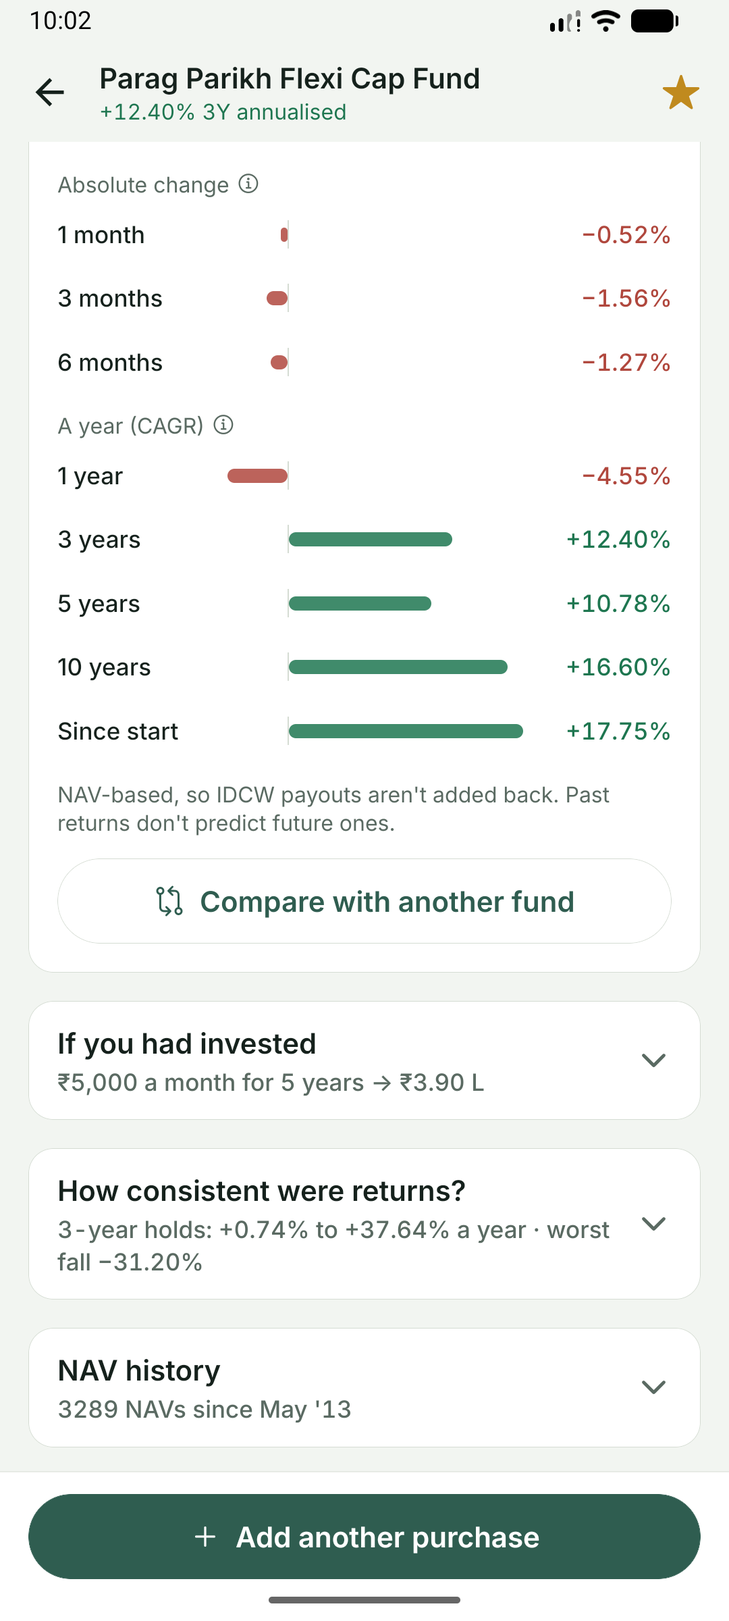
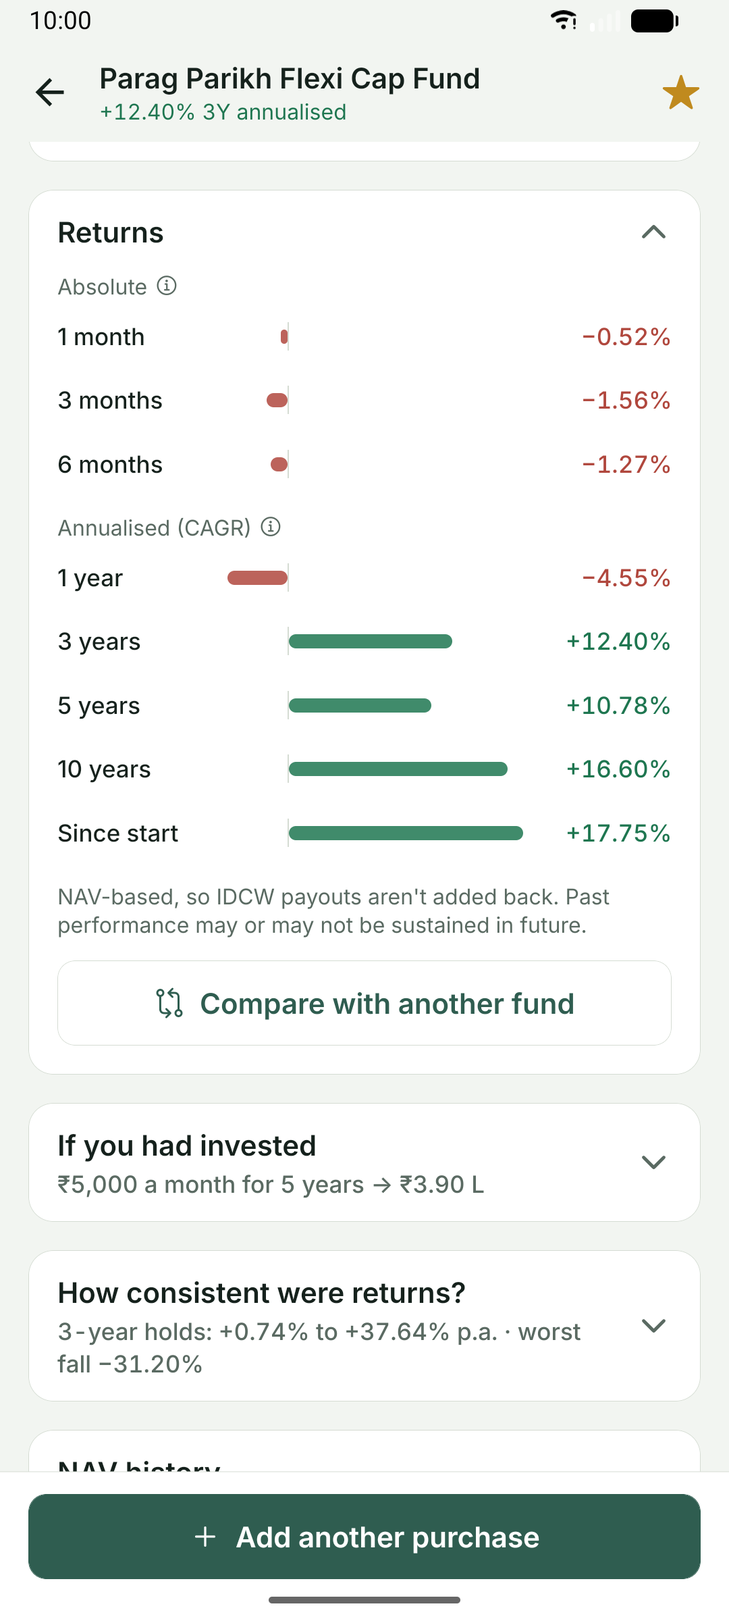
docs: README tour, recording and beyond-the-brief table; SECURITY.md; DESIGN.md polish pass; short AI_CONTEXT; screenshots retaken from the sample
Also: the recently viewed as-of date is the date most NAVs share, so a
liquid fund's weekend NAV no longer makes every other row print a date.

diff --git a/src/domain/nav.ts b/src/domain/nav.ts
@@ -151,16 +151,24 @@ export function isStale(lastDate: IsoDate, today: IsoDate): boolean {
 }
 
 /**
- * The date a list of latest NAVs is "as of": the newest one that isn't stale. A stale NAV
- * (a closed scheme) says its own date instead, so it never drags the shared date back.
+ * The date a list of latest NAVs is "as of": the date most of them share, the newest on a
+ * tie. A fund that publishes on other days (a liquid fund's weekend NAV) or a stale one (a
+ * closed scheme) then says its own date, instead of every other row having to.
  */
 export function currentNavDate(dates: readonly IsoDate[], today: IsoDate): IsoDate | null {
-  let newest: IsoDate | null = null;
+  const counts = new Map<IsoDate, number>();
   for (const date of dates) {
-    if (isStale(date, today)) continue;
-    if (newest === null || date > newest) newest = date;
+    if (!isStale(date, today)) counts.set(date, (counts.get(date) ?? 0) + 1);
   }
-  return newest;
+  let best: IsoDate | null = null;
+  let bestCount = 0;
+  for (const [date, count] of counts) {
+    if (count > bestCount || (count === bestCount && best !== null && date > best)) {
+      best = date;
+      bestCount = count;
+    }
+  }
+  return best;
 }
 
 /** One row of the NAV history list. */

diff --git a/src/domain/__tests__/nav.test.ts b/src/domain/__tests__/nav.test.ts
@@ -163,7 +163,9 @@ describe('isStale', () => {
 });
 
 describe('currentNavDate', () => {
-  it('takes the newest NAV date that is not stale', () => {
+  it('takes the date most current NAVs share, the newest on a tie, ignoring stale ones', () => {
+    // A liquid fund's Saturday NAV doesn't move the shared date off Friday.
+    expect(currentNavDate([d('2026-10-09'), d('2026-10-10'), d('2026-10-09'), d('2018-06-01')], TODAY)).toBe('2026-10-09');
     expect(currentNavDate([d('2026-10-08'), d('2026-10-09'), d('2018-06-01')], TODAY)).toBe('2026-10-09');
     expect(currentNavDate([d('2018-06-01')], TODAY)).toBeNull();
     expect(currentNavDate([], TODAY)).toBeNull();

diff --git a/AI_CONTEXT.md b/AI_CONTEXT.md
@@ -1,90 +1,60 @@
 # AI_CONTEXT
 
-> **Draft.** Sections marked **[YOU]** need your own words before submission. Everything else is taken from `docs/BUILD_LOG.md`, including Claude Code's corrections from phases 0–8.
+> **Draft.** Sections marked **[YOU]** need your own words before submission. Everything else is taken from `docs/BUILD_LOG.md`, which has the full record.
 
 ## AI tools used
 
 - **Claude (claude.ai):** research and fact-checking, then writing and testing the domain core (dates, money, NAV rules, the API client, the store's rules).
-- **Claude Code:** building the screens from a phased plan (`docs/BUILD_PROMPT.md`), with project rules in `CLAUDE.md`. I reviewed each phase before starting the next.
+- **Claude Code:** building the screens from a phased plan (`docs/BUILD_PROMPT.md`) under project rules in `CLAUDE.md`, then the product, design and polish rounds. I reviewed each phase before the next.
 - **[YOU]** Name the tools behind the three earlier research reports I started from (for example ChatGPT or Gemini deep research).
 
 ## How I directed them
 
-- I treated AI output as a draft to verify. Each claim the design rests on was checked against a primary source: live mfapi.in responses, SEBI and AMFI rules, and Expo SDK 57's own source and docs.
-- I ordered the work by risk. The logic that's easy to get subtly wrong (dates, money, NAV rules) was written first as pure TypeScript with tests built on real API data. The UI came afterwards, generated against those tested functions.
-- I wrote the rules down for the coding agent (`CLAUDE.md`): no floats for money, no `new Date('YYYY-MM-DD')`, nothing that doesn't run in Expo Go, and verified modules left alone unless a failing test proves a bug. Each phase had a gate: type-check, tests, bundle and a check on a phone.
-- When a phase needed a new rule (search result cap, chart range labels, gain/loss direction, holdings sort order), it went into `src/domain` with tests instead of into a screen. Every change to pre-built code is listed in the build log.
-- I tested each phase on my phone and sent back what I saw. From Phase 5 on I had Claude Code run the test points itself on an Android emulator through adb, and report what passed and what it couldn't check.
+- AI output was a draft to verify. Each claim the design rests on was checked against a primary source: live mfapi.in responses, SEBI and AMFI rules, and Expo SDK 57's own source.
+- Work was ordered by risk: dates, money and NAV rules first, as pure TypeScript with tests on real API data; screens afterwards, built against those functions.
+- Rules for the coding agent were written down (`CLAUDE.md`): no floats for money, no `new Date('YYYY-MM-DD')`, nothing that doesn't run in Expo Go, a domain function plus tests for every new rule. Each phase had a gate: type-check, tests, bundle, and a check on a device.
+- From Phase 5 on, Claude Code ran the test points itself on an Android emulator through adb (deep links, the accessibility tree, airplane mode, dark mode, 2× text) and reported what passed and what it couldn't check.
 
 ## Where AI helped
 
-- Mapping what the API really does: an unknown code returns HTTP 200 with empty data, history lags `/latest` by a day, a NAV exists on Sunday 31 Mar 2024, and closed schemes are still served.
-- Exact-money and calendar code, with tests that use real holiday gaps from the data.
-- Generating screens quickly against a precise spec.
-- Checking assumptions against the live API instead of guessing (whole-word search, the 15-result cap, date ranges, two-letter queries such as "jm").
-- Driving the emulator for QA: deep links, the accessibility tree, airplane mode, dark mode, the largest font size and frame timing. That pass found the large-font overflows in Phase 7.
+- Mapping what the API really does: an unknown code returns HTTP 200 with empty data, history lags `/latest` by a day, a NAV exists on Sunday 31 Mar 2024, closed schemes are still served.
+- Exact-money and calendar code, with tests that use real holiday gaps.
+- Building screens quickly against a precise spec, and walking through six investor personas (`docs/PERSONAS.md`) to find what was missing.
 - **[YOU]** Anything else that saved you time.
 
-## What needed correction or redesign
+## What needed correction
 
-From the research reports:
-- The purchase-NAV rule (see the example below).
-- Libraries that don't run in Expo Go: `react-native-charts-wrapper` and MMKV.
-- Claims attributed to Groww that are really Shopify's (the Redux Toolkit migration and FlashList), an outdated debugging tool (Flipper), wrong example dates, and an SDK 54 baseline.
+From the research reports: the purchase-NAV rule (below); libraries that don't run in Expo Go (`react-native-charts-wrapper`, MMKV); claims attributed to Groww that were Shopify's; an SDK 54 baseline.
 
-Found while building and checking the core (tests, type-checks against the real library sources, and reading the Babel preset):
-- Scheme-name parsing labelled a "Dividend Yield" fund as IDCW; plan and option are now read only from the part after the fund's name.
-- `10n ** x` on BigInt can be compiled to `Math.pow`, which throws; replaced.
-- The compact formatter could print "₹100.00 L" instead of "₹1.00 Cr".
-- Pricing a purchase from history merged with `/latest` could skip a NAV the history hadn't caught up with yet; `/latest` is now used only on an exact date match.
-- APIs that changed in this SDK: datetimepicker 9's `onChange` is deprecated, `Tabs` moved to `expo-router/js-tabs`, and TypeScript 6 no longer loads global test types.
+The six that mattered most during the build (the rest are in `docs/BUILD_LOG.md`):
 
-During the Claude Code phases (details and dates in `docs/BUILD_LOG.md`):
-- **Pasteable setup commands.** An AI-written setup guide put inline `#` comments in shell blocks. zsh doesn't treat `#` as a comment when pasted, and because the steps were separate lines, `git init` ran in `~/Documents` after `unzip` failed there. The docs now have no inline comments, and dependent steps are chained with `&&`.
-- **Search was assumed to match parts of words.** On my phone "par" found nothing while "parag" found 15. Claude Code checked the live API (`par`, `hdf` → 0; `parag`, `hdfc` → 15) instead of guessing, then changed the hint and empty-state copy rather than downloading all ~40,000 schemes. A follow-up check showed `jm` returns 15 JM Financial schemes, so the minimum query length went from 3 to 2.
-- **Money done in its head.** Claude Code's Phase 4 test notes said "Invested ≈ ₹9,390.80, Value ≈ ₹11,154.05". The exact figures are ₹9,390.91 and ₹11,154.14 (gain +₹1,763.24, +18.78%). The app showed the right numbers because they come from BigInt maths in `valueLot`, asserted in `valuation.test.ts`. Rule since: expected money values come from the domain functions or the tests, never hand arithmetic.
-- **A skipped check.** One small fix was committed after only the type check, "to save resources". Rule since: `npm run check` before every commit.
-- **Pull to refresh broken on Android.** The fund screen mixed Gesture Handler's `ScrollView` with React Native's `RefreshControl`; it needs Gesture Handler's `RefreshControl`.
-- **Offline searches never ended.** TanStack Query pauses a query offline instead of failing it, so the screen showed neither an error nor a spinner, and with previous results kept it would show "Searching…" forever. Paused queries with no data now show the offline error.
-- **Layout bugs I spotted on the phone:** filters stayed on after clearing the search; the empty state sat partly behind the keyboard (SDK 57 Android is edge-to-edge, so the keyboard overlaps instead of resizing); the "Stale" badge stacked under the date read as belonging to the next row; the empty fund header bar.
-- **Found in the Phase 7 emulator pass:** at the largest font size, holdings rows overflowed (the signed amounts ignored the 1.3× cap) and NAV dates wrapped; list headers weren't counted in `getItemLayout` offsets; watchlist rows without plan badges didn't line up.
-- **A security issue caught by an automated review.** The purchases CSV export copied scheme names (from an outside API) straight into cells; a name starting with `=` or `+` would run as a spreadsheet formula. A background security review flagged it; text cells are now neutralised, with tests.
-- **A navigation bug I found on the phone:** the fund page had no back arrow until you scrolled. A header title that rendered nothing also removed the back button.
-- **An edit that silently didn't apply.** After a formatter reflowed a line, a scripted text replacement matched nothing and the SIP banner kept its old wording; the emulator check caught it.
-- **Agent tests with wrong assumptions:** two new tests failed because the test, not the code, was wrong (a holiday on the wrong day; a 31st-of-month SIP after a clamped February). The second one exposed a real gap in the SIP detection, which was then fixed.
-- **Product gaps found by walking through six investor personas** (`docs/PERSONAS.md`): no explanations for beginners (now a glossary), no way to enter years of SIP instalments (now one form, plus "Add instalments due"), no risk measure (now the worst fall and recovery), no comparison (now Compare), and data that lived only on the phone (now backup, restore and CSV).
-- **Not every surprise was a bug.** Expo Go's "Failed to download remote update" in airplane mode is development-only (it fetches the bundle from Metro at each launch); `adb reverse` made offline cold starts testable. The plan expected 3 Direct Growth Parag Parikh plans; the live data now has 4.
-
-- **A fresh clone wouldn't install.** Adding a dependency exposed that `npm install` on a clean clone failed (ERESOLVE): the lockfile carried `react-dom@19.3.0`, an optional Expo peer that needs React 19.3, while SDK 57 pins 19.2.3. A reviewer's first command would have failed. Fixed with an `overrides` pin, verified with `npm ci` in an empty directory. The first attempted fix (`--legacy-peer-deps`) rewrote 500 lockfile lines and dropped packages, so it was reverted.
-- **A formatter run without the repo's config.** `npx prettier` (no config in the repo) rewrote five files to double quotes; they were restored from git and edited again by hand.
-- **A wrong first diagnosis.** Missing list dividers looked like a tall badge painting over the border; moving the divider changed nothing. Measuring row bounds showed the cause: 92 dp is 241.5 px at 420 dpi, so alternate rows overlapped by a pixel. Row heights are now rounded to whole pixels.
-- **A privacy leak.** The new "SIP ₹5,000" row label showed money with amounts hidden; the background security review flagged it, and it now reads "SIP".
-- **Invested didn't match the statement.** SIP instalments showed ₹4,999.99 because invested was units × NAV. Real apps and CAMS statements count the rupees paid; with approval, purchases now store the amount (optional, backward-compatible).
-- **"Is the list I gave you mine or yours?"** When I asked whether the to-do list had anything Claude found itself, it admitted it was mostly my own asks, then did its own critical audit of every screen (16 findings: duplicated figures, labels repeated per row, a pinned title wasting space, dots misaligned, tips in subtitles) and fixed them.
-- **A chart animation that stopped halfway.** The draw-in reveal was cancelled by re-renders; it now runs only when the range changes and finishes if interrupted.
+1. **Search was assumed to match parts of words.** On my phone "par" found nothing. Claude Code checked the live API (`par` → 0, `parag` → 15) instead of guessing, and changed the copy rather than downloading all ~40,000 schemes.
+2. **Money done in its head.** Its test notes said "Invested ≈ ₹9,390.80"; the exact figure is ₹9,390.91. The app was right because the figure comes from BigInt maths in `valueLot`. Rule since: expected money comes from the domain functions or the tests, never hand arithmetic.
+3. **A skipped check.** A small fix was committed after only the type check. Rule since: `npm run check` before every commit.
+4. **A fresh clone wouldn't install.** The lockfile carried `react-dom@19.3.0`, which needs React 19.3, while SDK 57 pins 19.2.3, so a reviewer's first `npm install` would have failed. Fixed with an `overrides` pin and verified with `npm ci` in an empty directory.
+5. **Security reviews caught two leaks.** Scheme names from the API went straight into CSV cells (formula injection), and a "SIP ₹5,000" label showed money with amounts hidden. Both fixed, the first with tests.
+6. **Invested didn't match the statement.** SIP instalments showed ₹4,999.99 because invested was units × NAV. Statements count the rupees paid, so purchases now store the amount (optional, backward-compatible).
 
 **[YOU]** Say in your own words how you caught these (what you saw on the phone, what made you push back) and which ones mattered most to you.
 
 ## Key decisions and trade-offs
 
-- **TanStack Query for server data, Zustand for user data.** Different lifecycles: the cache, retries, cancellation and per-row states come from TanStack, while two small arrays don't need Redux.
-- **Exact money:** BigInt scaled integers, rounded once at display; our own Indian-format formatter instead of `Intl`.
-- **Expo Go compatibility as a hard rule:** SVG chart, AsyncStorage, no Reanimated, no Skia. Reviewers can run it without a build.
-- **Persist only latest NAVs** (offline watchlist), not full histories (they can exceed Android's per-entry storage limit).
-- **Lots, not one holding per fund**, because real purchases happen on different dates at different NAVs.
-- **Fixed-height list rows with a 1.3× font cap**, so long lists stay smooth and nothing overlaps at the largest font size; text truncates with an ellipsis instead.
-- **Tell the user about API limits instead of working around them:** whole-word search and the 15-result cap are explained in the UI rather than solved by downloading the full scheme list.
+- **TanStack Query for server data, Zustand for user data:** different lifecycles; two small arrays don't need Redux.
+- **Exact money:** BigInt scaled integers, rounded once at display, with our own Indian-format formatter.
+- **Expo Go as a hard rule:** SVG chart, AsyncStorage, no Reanimated or Skia, so a reviewer can run it without a build.
+- **Lots, not one holding per fund:** real purchases happen on different dates at different NAVs.
+- **Tell the user about API limits** (whole-word search, the 15-result cap) instead of working around them.
 
 Details are in `docs/ARCHITECTURE.md`.
 
 ## An example where I overrode the AI
 
-All three research reports said a weekend or holiday purchase should use the **nearest previous NAV**. I checked SEBI's applicable-NAV rules. A purchase gets the NAV of the day the money is realised before the cut-off, so money that arrives on a day with no NAV can only be priced at the **next** NAV. Nearest-prior would value a Saturday purchase at Friday's NAV, a price that purchase could never have got.
+All three research reports said a weekend or holiday purchase should use the **nearest previous NAV**. SEBI's applicable-NAV rules say a purchase gets the NAV of the day the money is realised before the cut-off, so money that arrives on a day with no NAV can only get the **next** NAV. Nearest-prior would price a Saturday purchase at Friday's NAV, a price it could never have got.
 
-The app uses the first NAV on or after the purchase date. If that NAV isn't published yet, the lot is saved as "Awaiting NAV" rather than valued with a guess. Trailing returns still use the NAV on or before each date, because they answer a different question: what the NAV was as of that day. The tests use real dates: Independence Day 2023 maps to 16 Aug, and Good Friday 2024 maps to Sunday 31 Mar 2024, a real weekend NAV.
+The app uses the first NAV on or after the purchase date, and saves a purchase as "Awaiting NAV" until that NAV is published. Trailing returns still use the NAV on or before each date, because they answer a different question. Tests use real dates: Independence Day 2023 maps to 16 Aug, and Good Friday 2024 to Sunday 31 Mar 2024, a real weekend NAV.
 
-**[YOU]** Optionally add a second example from the Claude Code phases. Candidates from the log: whole-word search (my phone test disproved the plan's assumption), or the hand-computed money figures that the tested code got right.
+**[YOU]** Optionally add a second example from the Claude Code phases, such as whole-word search (your phone test disproved the plan's assumption).
 
-## What I'd improve with more time
+## With more time
 
-Portfolio XIRR across lots; import from a CAS statement; day change on watchlist rows; component tests (React Native Testing Library) and end-to-end tests (Maestro); a development build with a proper icon and splash; grouping lots by fund; and a SIP calculator.
+Import from a CAS statement; Maestro end-to-end tests; a development build with app-switcher privacy tied to the hide-amounts toggle; multiple portfolios (for example, one per family member).

diff --git a/README.md b/README.md
@@ -2,6 +2,16 @@
 
 Search Indian mutual funds, read a fund's NAV history, keep a watchlist, and record holdings to see their current value and return. Built with Expo (managed workflow) and TypeScript on the free [mfapi.in](https://www.mfapi.in/) API.
 
+<img src="docs/screenshots/tour.gif" alt="A 28-second tour: Holdings, a fund with a running SIP, scrubbing the NAV chart, the 3Y and All ranges, the watchlist" width="280">
+
+## Two-minute tour
+
+1. Open **Holdings** and tap **Explore with a sample portfolio**. It prices five real funds from their published NAVs (one-time purchases and two monthly SIPs since 2022 and 2023), the same way a purchase you type in is priced, and stars three funds. **Clear** on the banner takes out only the sample.
+2. Open **Parag Parikh Flexi Cap**. Under *Your investment*, the purchase dated **Sunday 31 Mar 2024** got that day's NAV: AMFI published one that Sunday, the last day of the financial year. The October 2025 purchase was near the year's high, so it shows a loss.
+3. Open **HDFC Mid Cap**: the app spotted the ₹5,000 monthly SIP and offers **Add instalments due** for the months since the last one.
+4. Tap **Add another purchase**, enter any units and pick **Fri 2 Oct 2026** (Gandhi Jayanti, no NAV). It's priced at **Mon 5 Oct**, the first NAV on or after the date, and the form says so.
+5. Turn on airplane mode and reopen **Watchlist**: the saved NAVs show with their dates, and the closed HDFC Balanced Fund is flagged **Stale** with its last date, 01 Jun 2018.
+
 ## Run it
 
 **You need:** Node.js ^20.19.4, ^22.13.0 or ^24.3.0 (22 LTS recommended); the **Expo Go** app (SDK 57) on an Android or iOS phone, or an emulator; and internet access to `https://api.mfapi.in`. There are no API keys and no environment variables.
@@ -26,20 +36,24 @@ This project uses **Expo SDK 57**, which the store version of Expo Go runs as of
 | Command | What it does |
 |---|---|
 | `npm run typecheck` | TypeScript, strict |
-| `npm test` | Jest: 150+ tests on dates, money, NAV rules, parsing, the API client and the store |
+| `npm test` | Jest: 265 tests in 30 suites on dates, money, NAV rules, parsing, the API client, the sample portfolio and the store |
 | `npm run check` | Both |
 
 ## Screenshots
 
-Android emulator, light mode, Expo Go (SDK 57). Inter typeface, fund-house monograms, haptics and motion throughout.
+Android emulator, light mode, Expo Go (SDK 57), with the sample portfolio loaded.
 
-| Explore | Fund | Your investment | Returns |
-|---|---|---|---|
-| ![Explore](docs/screenshots/01-explore.png) | ![Fund page](docs/screenshots/02-fund.png) | ![Your investment](docs/screenshots/03-your-investment.png) | ![Returns](docs/screenshots/04-returns.png) |
+| Explore | Fund | Your investment |
+|---|---|---|
+| ![Explore](docs/screenshots/01-explore.png) | ![Fund page](docs/screenshots/02-fund.png) | ![Your investment](docs/screenshots/03-your-investment.png) |
 
-| NAV calendar | Watchlist | Holdings | Compare |
-|---|---|---|---|
-| ![NAV calendar](docs/screenshots/05-nav-calendar.png) | ![Watchlist](docs/screenshots/06-watchlist.png) | ![Holdings](docs/screenshots/07-holdings.png) | ![Compare](docs/screenshots/08-compare.png) |
+| Returns | Consistency | NAV calendar |
+|---|---|---|
+| ![Returns](docs/screenshots/04-returns.png) | ![Consistency](docs/screenshots/05-consistency.png) | ![NAV calendar](docs/screenshots/06-nav-calendar.png) |
+
+| Watchlist | Holdings | Compare |
+|---|---|---|
+| ![Watchlist](docs/screenshots/07-watchlist.png) | ![Holdings](docs/screenshots/08-holdings.png) | ![Compare](docs/screenshots/09-compare.png) |
 
 ## Features
 
@@ -50,8 +64,30 @@ Android emulator, light mode, Expo Go (SDK 57). Inter typeface, fund-house monog
 - **Holdings:** one row per fund with value, returns or XIRR (switchable, sortable); a summary with today's change, total return, invested, XIRR across purchases, and allocation by asset class or by fund; an eye toggle that hides rupee amounts.
 - **Adding purchases:** one purchase by units and date, or a monthly SIP in one go (amount and start date; every instalment priced at its first NAV on or after the date). The app's own calendar jumps by year and greys out dates outside the fund's data.
 - **For newcomers:** a plain-language explanation behind an ⓘ wherever a term like NAV, XIRR, CAGR, IDCW or Direct appears.
+- **Your data:** back up everything as text, restore it on another phone (validated row by row), or share purchases as a CSV for a spreadsheet.
+- **Sample portfolio:** one tap from an empty Holdings screen, so every feature has data to show; Clear removes only what it added.
 
-Design decisions, component by component, are in [docs/DESIGN.md](docs/DESIGN.md).
+Design decisions, component by component, are in [docs/DESIGN.md](docs/DESIGN.md). The threat model is in [docs/SECURITY.md](docs/SECURITY.md).
+
+## Beyond the brief, and why
+
+The brief asks for search, NAV history, a watchlist and holdings. Each extra below came from walking through an investor persona ([docs/PERSONAS.md](docs/PERSONAS.md)), and each keeps its rule in `src/domain` with tests.
+
+| Extra | Who it's for | Rule lives in |
+|---|---|---|
+| Amount paid per purchase, so invested matches the statement | Arjun (SIP investor) | `valuation.ts` (`lotInvested`) |
+| A monthly SIP entered in one go, and "Add instalments due" | Arjun | `sip.ts` (`planSip`, `detectSip`) |
+| XIRR across purchases, today's change, allocation by asset class | Arjun, Vikram | `xirr.ts`, `holdings.ts`, `assetClass.ts` |
+| ELSS lock-in and long-term dates per purchase | Kavya, Arjun | `holdingPeriod.ts` |
+| Worst fall and recovery; rolling 3- and 5-year returns | Meena, Vikram | `returns.ts`, `longTerm.ts` |
+| Compare two funds | Vikram | `compare.ts` |
+| NAV history as a month calendar | everyone | `navCalendar.ts` |
+| Plain-language glossary behind ⓘ | Riya (beginner) | `glossary.ts` |
+| Hide amounts; offline watchlist | Farhan (privacy, offline) | `preferencesStore.ts`, `src/query` |
+| Backup, restore and CSV | everyone | `src/store/backup.ts` |
+| Sample portfolio | the person reviewing this app | `sample.ts` |
+
+What was left out on purpose: notifications, CAS import, more calculators and anything that projects future returns.
 
 ## Requirements and where they are handled
 
@@ -75,16 +111,19 @@ Design decisions, component by component, are in [docs/DESIGN.md](docs/DESIGN.md
 
 ```
 src/
-  app/          routes (Expo Router): (tabs)/index, watchlist, holdings; fund/[code]/index, navs; add-holding
+  app/          routes (Expo Router): (tabs)/index, watchlist, holdings; fund/[code]/index, navs; add-holding,
+                compare, backup
   components/   ui/, search/, fund/, form/, watchlist/, holdings/
-  domain/       pure rules: dates, calendar, decimal, format, nav, returns, longTerm, xirr, sip, compare, holdings,
-                assetClass, valuation, validation, chart, search, signed, glossary
+  domain/       pure rules: dates, calendar, decimal, format, nav, navCalendar, returns, longTerm, xirr, sip,
+                sample, compare, holdings, holdingPeriod, assetClass, fundHouse, valuation, validation, chart,
+                lttb, search, schemeName, signed, glossary
   api/          mfapi.in client, response parsing, typed errors, real-payload fixtures
   query/        TanStack Query client, keys, options, data hooks, persistence
-  store/        Zustand portfolio store and its pure transitions
-  hooks/        debounce, connectivity, refresh on focus, pending-lot resolver
+  store/        Zustand portfolio and preferences stores, their pure transitions, backup and CSV
+  hooks/        debounce, connectivity, refresh on focus, pending-lot resolver, reduced motion, sample portfolio
   theme/        tokens and useTheme
-docs/           ARCHITECTURE.md, DESIGN.md, PERSONAS.md, BUILD_PROMPT.md, BUILD_LOG.md, RUNBOOK.md
+docs/           ARCHITECTURE.md, DESIGN.md, SECURITY.md, PERSONAS.md, POLISH_PLAN.md, BUILD_PROMPT.md,
+                BUILD_LOG.md, RUNBOOK.md, screenshots/
 AI_CONTEXT.md   how AI tools were used and directed
 ```
 
@@ -100,6 +139,7 @@ The decisions behind this layout, the date and money rules, and the trade-offs a
 - **"Invested" is the rupees paid when the app knows them, else units × NAV.** SIP instalments save their amount, and a single purchase can take the amount from your statement; a purchase entered by units alone (or saved before amounts were kept) counts units × NAV, which can sit a few paise under what you paid because units are rounded and stamp duty is deducted before units are allotted. Older purchases aren't back-filled: guessing an amount could be wrong.
 - **Totals are summed exactly, then rounded**, so they can differ from the sum of the rounded rows by a paisa.
 - Mobile only: web isn't a target.
+- **Past performance may or may not be sustained in future.** Mutual fund investments are subject to market risks, read all scheme related documents carefully. This app shows published NAVs and what they imply; it makes no projections and gives no advice.
 
 ## Environment and data notes
 

diff --git a/docs/BUILD_LOG.md b/docs/BUILD_LOG.md
@@ -410,7 +410,7 @@ The user asked whether the to-do list held anything I'd found myself; mostly it 
 
 - **P0-1. Hygiene.** Deleted, with approval: `src/components/fund/LatestNavCard.tsx` and `src/components/holdings/LotRow.tsx` (unused since the fund hero and the by-fund holdings rows replaced them; nothing imports them) and `docs/screenshots/05-consistency.png` (unused, and it shared the `05-` prefix with the calendar shot). Earlier entries that mention them describe what was built at the time and are left as written. `docs/POLISH_PLAN.md` committed with this item.
 - **P0-2. Data honesty and copy.**
-  - Recently viewed showed NAVs with no date, so HDFC Balanced Fund's 2018 NAV read as current. The section header now says "NAV · 1D · as of 09 Oct 2026" (new `currentNavDate` in `src/domain/nav.ts`, tested: the newest NAV date that isn't stale). A stale row shows a "Stale" tag and its own date in place of the 1D move; a current NAV from another day prints its date after the move.
+  - Recently viewed showed NAVs with no date, so HDFC Balanced Fund's 2018 NAV read as current. The section header now says "NAV · 1D · as of 09 Oct 2026" (new `currentNavDate` in `src/domain/nav.ts`, tested; changed in P0-6 to the date most current NAVs share, see below). A stale row shows a "Stale" tag and its own date in place of the 1D move; a current NAV from another day prints its date after the move.
   - Fund hero: "NAV ₹88.9258 +₹1.2703 (+1.45%) as of 09 Oct 2026" under the 3Y headline, above the chart. Before, the NAV only appeared in key facts below the fold.
   - One convention for yearly figures: "p.a." on screen ("XIRR +11.03% p.a.", "since start, p.a.", "3 years (p.a.)"), "Annualised (CAGR)" and "Absolute" as the returns group heads, "per year" for screen readers. `grep -rn "a year" src` now finds only code comments.
   - SEBI wording: "Past performance may or may not be sustained in future." replaces "Past returns don't predict future ones." (returns, replay, consistency, compare). The market-risk line sits once, under the source note at the foot of the fund page.
@@ -425,3 +425,11 @@ The user asked whether the to-do list held anything I'd found myself; mostly it 
   - The index fund is counted as equity in the allocation (its AMFI category is "Other Scheme - Index Funds"; the existing asset-class rule files Nifty 50 index funds under equity), so the bar shows Equity and Debt.
 - **P0-4. Clean data.** Expo Go's data cleared on the emulator (`pm clear host.exp.exponent`), the app relaunched and the sample portfolio loaded; screenshots from here on come from it.
 - **P0-5. Platform pass, Android.** Every screen (Explore, Watchlist, Holdings, fund page, NAV history, Add holding, Compare, Your data) on the emulator in light and dark, at text size 1.0 and 2.0. One fix: Compare's fund picker rows had a minimum height and no vertical padding, so at 2.0 each subtitle touched the next fund's name; rows now have padding and cap their text at 1.3× like every other fund row. The rest held: rows with fixed heights cap their text, the fund hero's NAV line wraps cleanly, dark tints in the NAV calendar keep their figures readable.
+- **P0-6. Submission docs.**
+  - Screenshot pass found one more data-honesty issue: with the liquid fund's Sunday NAV (11 Oct) in Recently viewed, the header said "as of 11 Oct 2026" and four rows each had to print "09 Oct 2026". `currentNavDate` now takes the date most current NAVs share (the newest on a tie); only the liquid fund prints its own date. Test added.
+  - README: a two-minute tour (sample portfolio, the Sunday 31 Mar 2024 purchase, the SIP's "Add instalments due", a purchase on Fri 2 Oct 2026 priced at Mon 5 Oct, offline watchlist with the stale fund), a 28 s screen recording as a 2.3 MB GIF (`docs/screenshots/tour.gif`, from `adb shell screenrecord` and ffmpeg), a "Beyond the brief, and why" table (each extra, its persona, the domain file holding its rule), the real test count (265 in 30 suites), the full structure, backup and the sample in Features, and the SEBI lines under Known limitations. The sample's totals aren't quoted, because the UTI SIP adds an instalment every month.
+  - Screenshots retaken from the sample portfolio on a cleared emulator, at 1080 × 2400 with a demo status bar and Expo Go's tools button hidden; renumbered 01–09 with Consistency back as `05-consistency.png` (`git mv` for the renamed four).
+  - `docs/SECURITY.md` (new): what's stored and where, seven threats with their handling and file references, and residual risks (no encryption beyond the sandbox, plain-text backups, the app switcher, `npm audit`'s 64 advisories in the Expo/Metro toolchain, left unfixed because `--force` downgrades below SDK 57; not traced to the bundle).
+  - `docs/DESIGN.md`: the radius scale, the watchlist status slot, NAV dates in lists, the fund hero line, "p.a.", the disclaimers, the sample portfolio, and the motion and haptics map as built (with the P1 changes marked as planned).
+  - `AI_CONTEXT.md` cut from 90 to about 70 lines: six corrections kept with one or two lines each, the rest pointed to this log; "with more time" refreshed (it listed things already built); every **[YOU]** marker kept, none filled in.
+  - Commit hashes cited in this log are the ones after the history rewrite.

diff --git a/docs/DESIGN.md b/docs/DESIGN.md
@@ -55,13 +55,42 @@ Every component below was decided by the data it shows, then checked against how
 | Holdings sort | any figure, either way | a sheet: one choice per row, direction under the chosen one ("A to Z" for names) | Groww's sort sheet | independent of the column shown; Day change added as a fourth column |
 | Large titles | the tab's name and status | the title scrolls away; a slim bar fades in a small title and a hairline | iOS / Material large titles | subtitle is status ("NAVs as of 09 Oct 2026"), never a tip |
 | NAV chart | NAV over a range | high and low marked on the line at their dates; a quiet fixed-height readout; draws in left to right on a new range | Groww, Kite | while scrubbing, the change from the range's start |
-| Returns | trailing returns | two groups headed by their glossary term (Absolute, A year), one line each, the zero line placed by the data | — | half the height of the earlier two-line rows |
+| Returns | trailing returns | two groups headed by their glossary term (Absolute, Annualised (CAGR)), one line each, the zero line placed by the data | — | half the height of the earlier two-line rows |
 | NAV history | every NAV | a month calendar of business days, each tinted by the size and direction of its move, the % always printed; List one tap away | the app's own purchase calendar | a month's rhythm at a glance; holidays and gaps visible |
 | Holding periods | allotment dates, AMFI category | "Short-term ₹1,11,541.58 of ₹1,22,695.72 · Next turns long-term 28 Oct 2026"; ELSS lock-in per purchase | Groww's investment details | from the allotment (NAV) date; silent where the tax class can't be told |
 | Sheets | a short task or explanation | the dim fades while the sheet glides up; reverses on close | Material bottom sheets | shared by glossary, calendar, sort |
 | Haptics | touch | tick for choices and scrubbing, tap for toggles, success on save | iOS / Android guidelines | three kinds only, so the app feels consistent |
 | Explore collections | starting points | a two-column grid of cards with an icon and one line on what each holds | Groww's collections | no return claims; each just runs a search |
 | Copy | explanations | one line on screen; the rest behind ⓘ | — | seven paragraphs cut |
+
+## Polish pass (11 Oct 2026)
+
+| Component | Data | Representation | Reference | Our addition |
+|---|---|---|---|---|
+| Corner radius | every surface | one scale by role: tags 4, chips and selector thumbs 6, buttons, inputs, tracks and the tab highlight 10, cards 14; fully round only for data bars | Material 3 shape scale | a tag is boxier than a card, so size and role read together |
+| Watchlist status slot | today's move, or that there is no recent NAV | the right of the middle line holds the day's change; a fund with no NAV for 7 days shows **Stale** there instead | — | every row reads name / NAV, tags / status, house / date; tags have a fixed 20 pt height so they line up with text |
+| NAV dates in lists | the date each latest NAV is from | the section header carries the date most rows share ("NAV · 1D · as of 09 Oct 2026"); a row on another day prints its own date, a stale row "Stale · 01 Jun 2018" | Groww's watchlist | a weekend NAV (liquid funds) doesn't push every other row to print a date |
+| Fund hero | the NAV and its date | "NAV ₹88.9258 +₹1.2703 (+1.45%) as of 09 Oct 2026" under the 3Y figure, above the chart | Groww, Kite | the NAV was below the fold before |
+| Yearly figures | annualised returns | "p.a." on screen ("+12.40% p.a.", "since start, p.a."), "per year" for screen readers | AMC factsheets | one convention instead of five |
+| Disclaimers | — | SEBI's past-performance sentence on every returns footnote; the market-risk line once, at the foot of the fund page | SEBI advertisement code | — |
+| Sample portfolio | real funds priced from real NAVs | a secondary button on the empty Holdings screen; a blue banner with Clear on Holdings and Watchlist while any sample item is saved | product tours | priced by the same domain rules as a typed purchase; Clear removes only what it added |
+
+### Motion and haptics, as built
+
+Motion tokens are `fast` 150 ms, `base` 220 ms and `slow` 320 ms, on the native driver only; reduced motion makes all of it instant (`useReducedMotion`).
+
+| Moment | Motion | Haptic |
+|---|---|---|
+| A selector changes | the marker slides (`base`) | tick |
+| A section opens or closes | the page eases apart (`LayoutAnimation`), the chevron turns | tap |
+| A sheet opens or closes | the dim fades while the sheet glides by its own height | — |
+| A chart range changes | the line draws in left to right; snaps to drawn if interrupted | tick |
+| Scrubbing a chart | crosshair and readout follow the finger | tick on each new point (to be thinned to a new month on long ranges: plan P1-2) |
+| Star, eye | — (cross-fade and a small scale are plan P1-1) | tap |
+| Save a purchase or SIP; load the sample | — | done |
+| Button press | scales to 0.97 and back | — |
+
+Never animated: money and percentages (a counting number shows wrong values on the way), and screen transitions (they stay native to each platform).
 
 ## What we deliberately left out
 

diff --git a/docs/SECURITY.md b/docs/SECURITY.md
@@ -1,0 +1,29 @@
+# Security and privacy
+
+A one-page threat model for a phone app that keeps someone's mutual fund holdings.
+
+## What is stored, and where
+
+- **On the phone only:** the watchlist, purchases (units, date, the NAV applied, the amount paid), recently viewed funds, the hide-amounts setting and, while it's loaded, which items belong to the sample portfolio. All of it is in AsyncStorage inside the app's sandbox (`mfx.portfolio`, `mfx.preferences`), plus cached latest NAVs (`mfx.query-cache`).
+- **Nothing on a server.** There are no accounts, no analytics and no crash reporting. The only network traffic is unauthenticated GET requests to `https://api.mfapi.in` for public NAV data; no user data is sent in them.
+
+## Threats and how they're handled
+
+| Threat | Handling | Where |
+|---|---|---|
+| Someone looking over your shoulder | An eye toggle hides every rupee amount of your own money (holdings, purchases, the SIP amount in labels and banners); percentages stay. Hypothetical amounts (Compare's ₹10,000, "If you had invested") are not your money and stay visible. | `PrivateAmount.tsx`, `preferencesStore.ts` |
+| A lost or unlocked phone | The data is only as safe as the phone's lock screen and the app sandbox. There is no in-app lock. | residual risk, below |
+| A malicious or corrupt backup | A restore is parsed, validated row by row (scheme codes, decimal strings, ISO dates, a positive NAV), and only valid rows are kept; the confirmation says how many damaged rows were left out. Every load from storage goes through the same validation, so corrupt saved data can't crash the app. | `backup.ts`, `portfolioSchema.ts` (`sanitizePortfolio`), tests in `src/store/__tests__` |
+| A malicious or broken API response | Responses are treated as untrusted JSON: each field is type-checked, malformed NAV rows are skipped and counted, an unknown scheme (HTTP 200 with empty data) becomes a typed `not_found` error, and every request has a timeout (15 s, 20 s for full histories) and can be cancelled. Scheme names are only ever rendered as text. | `src/api/parse.ts`, `src/api/client.ts`, `src/api/errors.ts` |
+| A malicious deep link | Route params are strings and are parsed strictly: a scheme code must be 1–9 digits and positive, or the screen shows "That link doesn't point to a scheme". Links can open screens but never write data; adding a purchase always needs the user to press Save. | `parseSchemeCode` in `src/domain/search.ts`, `InvalidSchemeLink` in `FundGate.tsx` |
+| CSV formula injection | Scheme names come from an outside API and go into the purchases CSV. A text cell starting with `=`, `+`, `-`, `@`, a tab or a carriage return gets a leading apostrophe, so a spreadsheet reads it as text, not a formula. Found by a background security review; tested. | `holdingsCsv` in `src/store/backup.ts` |
+| Amounts showing while hidden | A review found the "SIP ₹5,000" label and the SIP banner showed rupees with amounts hidden; both now read "SIP". | `FundHoldingRow.tsx`, `FundLots.tsx` |
+| Dependencies | Expo SDK 57 packages plus TanStack Query (and its AsyncStorage persister) and Zustand; no native modules beyond what Expo Go ships. Versions are pinned by the lockfile and checked with `npx expo install --check`. | `package.json` |
+
+## Residual risks
+
+- **No encryption at rest beyond the app sandbox.** AsyncStorage is plain files in the app's private storage. Encrypting it needs a native module or a JS crypto dependency, which is a poor trade for data that is already sandboxed and holds no credentials.
+- **Backups are plain text.** Anyone who gets a backup can read the holdings in it. The backup screen should say so (planned, `docs/POLISH_PLAN.md` P1-5).
+- **The app switcher shows the last screen.** Hiding it needs `expo-screen-capture`, a new dependency (P2 in the plan).
+- **`npm audit` reports 64 advisories (15 moderate, 49 high)** as of 11 Oct 2026, in packages such as `braces`, `node-forge` and `decode-uri-component` that come with the Expo CLI and Metro toolchain. The suggested fix is `npm audit fix --force`, which downgrades packages outside what SDK 57 supports, so it isn't applied. I haven't traced each advisory to whether its package ends up in the app bundle.
+- **mfapi.in is a free community API over HTTPS** with no published guarantees; the app shows its data as-is, with the date on every NAV.
